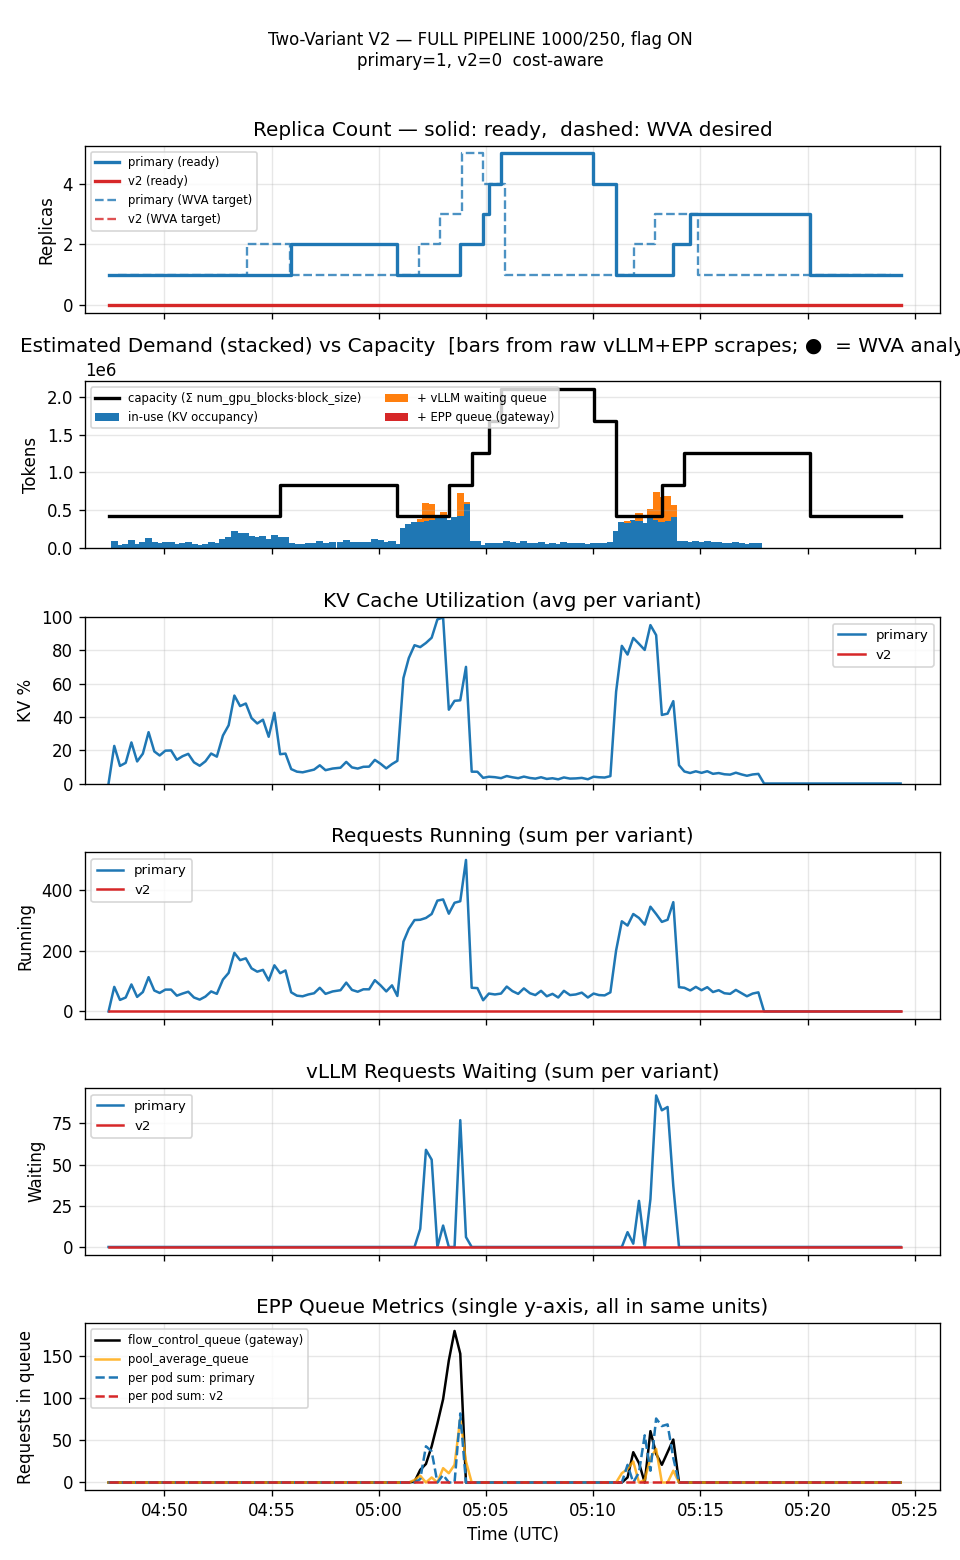
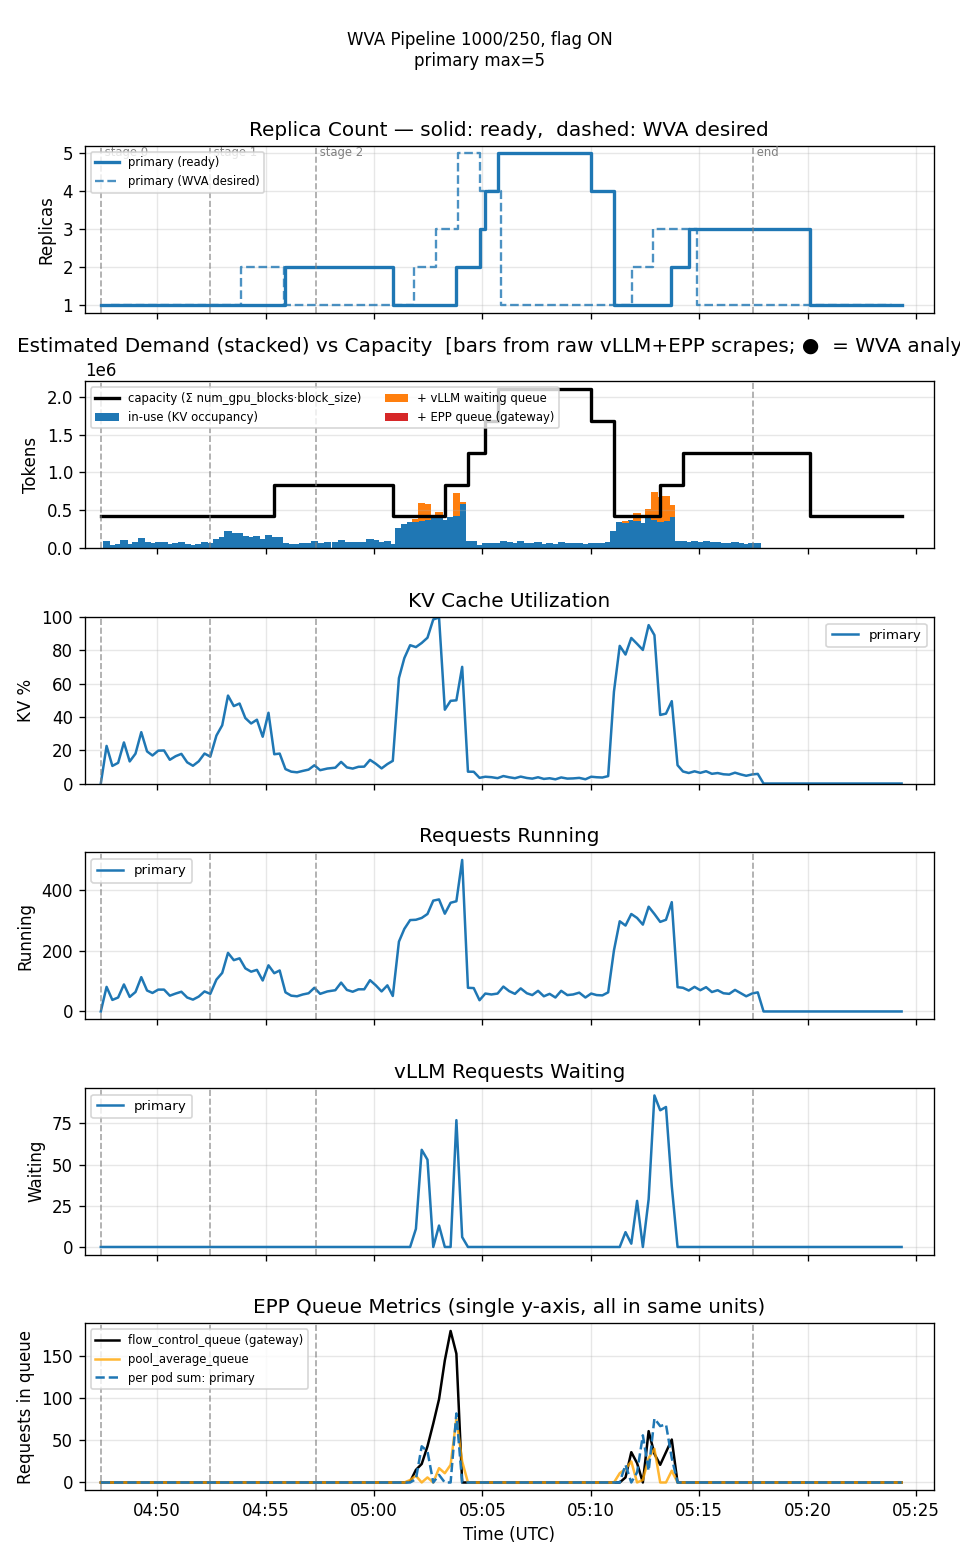
docs(comparison): add stage-transition lines to leg1a/1b pipeline graphs
Regenerated with plot_two_variant_pipeline.py's new --stage-sec markers
(measured per-stage elapsed seconds) so the rate 16/20/24 transitions
and run end are visible directly on the timeseries plots.

diff --git a/comparison-1000x250-rateanchoredk2-20260731/comparison.md b/comparison-1000x250-rateanchoredk2-20260731/comparison.md
@@ -88,6 +88,9 @@ raw vLLM/EPP scrapes (no controller-log dependency), and the WVA-desired series 
 replaying the same "Applied saturation decision" pattern against the full controller log already
 saved in `results/.../wva-controller.log`.
 
+Dashed gray vertical lines mark the load-profile's stage transitions (rate 16→20→24, measured
+elapsed seconds per stage, not nominal) and the run's end.
+
 ### Flag ON — ramps to 5, one sharp collapse-to-1, recovers to 3
 
 ![WVA flag ON pipeline](img/wva_on_pipeline.png)
